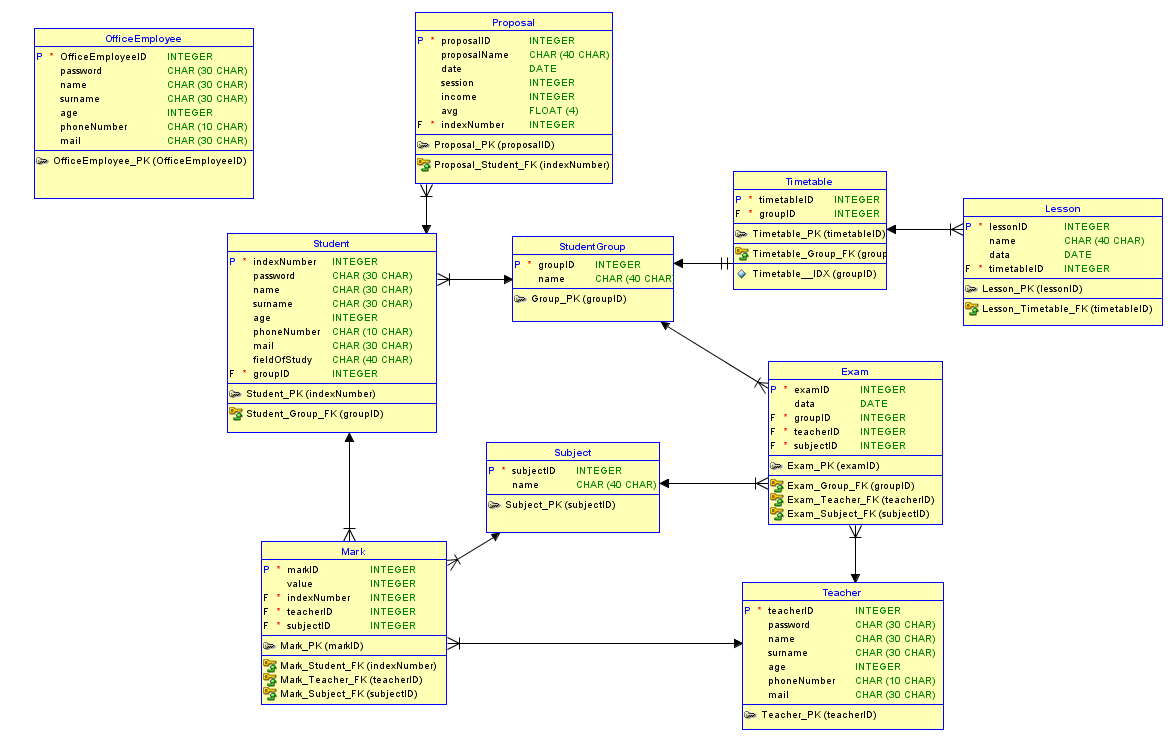
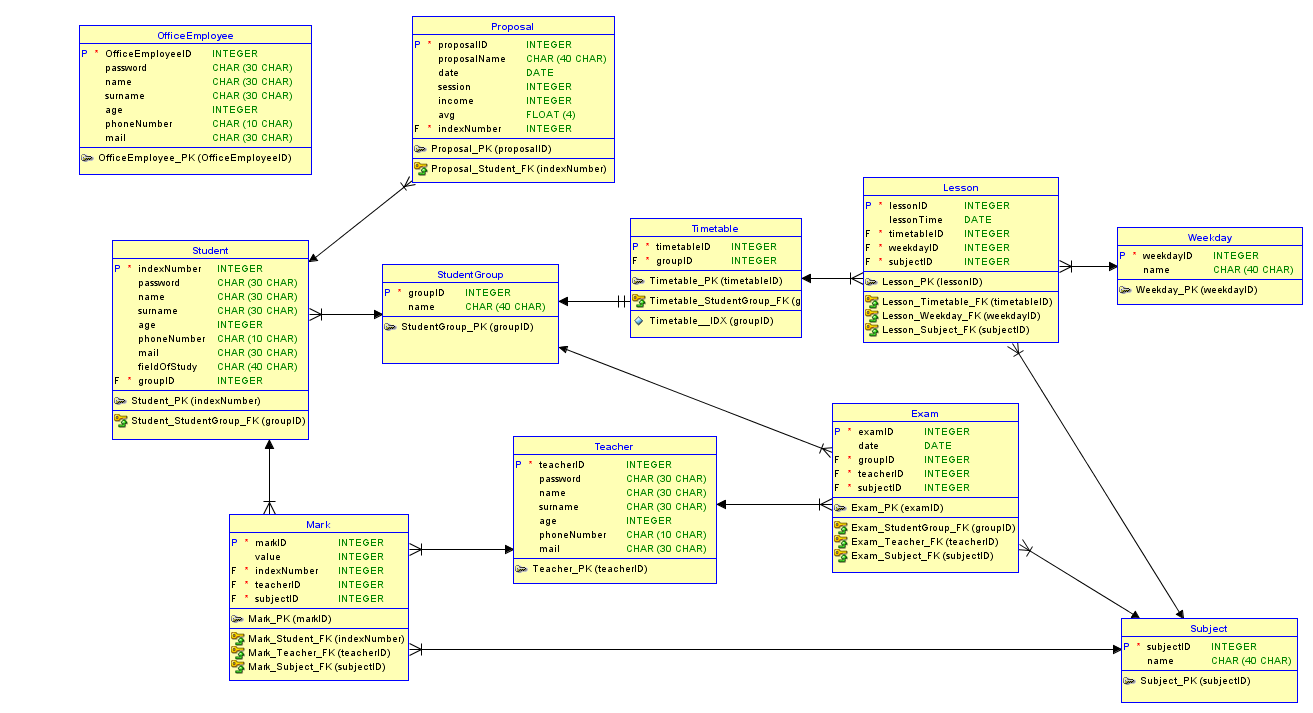
Updated addLessonToTimetable

diff --git a/GUI/src/addLessonToTimetable.java b/GUI/src/addLessonToTimetable.java
@@ -1,0 +1,140 @@
+import com.github.lgooddatepicker.components.TimePicker;
+
+import javax.swing.*;
+import java.awt.event.ActionEvent;
+import java.awt.event.ActionListener;
+import java.sql.*;
+
+public class addLessonToTimetable extends JFrame implements ActionListener {
+    private JPanel addLessonPanel;
+    private JPanel addLessonForm;
+    private JPanel buttonPanel;
+    private JTextField subjectField;
+    private JComboBox groupComboBox;
+    private JComboBox weekdayComboBox;
+    private TimePicker hourTimePicker;
+    private JButton addButton;
+    private JButton resetButton;
+    private JButton closebutton;
+    Connection con;
+    Statement stmt;
+
+    public addLessonToTimetable(Connection con, Statement stmt){
+        JFrame lesson = this;
+        lesson.setSize(400, 400);
+        lesson.setLocationRelativeTo(null);
+        this.setDefaultCloseOperation(JFrame.EXIT_ON_CLOSE);
+        this.setContentPane(addLessonPanel);
+
+        this.con = con;
+        this.stmt = stmt;
+
+        resetButton.addActionListener(this);
+        addButton.addActionListener(this);
+        closebutton.addActionListener(this);
+
+        String[] weekdays = {"Poniedzialek", "Wtorek", "Sroda", "Czwartek", "Piatek", "Sobota", "Niedziela"};
+
+        for(int i=0;i<weekdays.length;i++){
+            weekdayComboBox.addItem(weekdays[i]);
+        }
+
+        try {
+            ResultSet groups = stmt.executeQuery("SELECT * from StudentGroup");
+            while(groups.next()) {
+                groupComboBox.addItem(groups.getString("name"));
+            }
+        } catch (SQLException throwables) {
+            throwables.printStackTrace();
+        }
+
+        lesson.setVisible(true);
+    }
+
+    @Override
+    public void actionPerformed(ActionEvent e) {
+        String subjectName = null;
+        String groupName = null;
+        int subjectID=0;
+        int groupID=0;
+        int timetableID=0;
+        int weekdayID=0;
+        String lessonTime = null;
+        int count;
+        if(e.getSource()==addButton){
+            if(!subjectField.getText().isEmpty()){
+                subjectName = subjectField.getText();
+            }
+            try {
+                ResultSet subjects = stmt.executeQuery("SELECT * from subject where name='"+subjectName+"'");
+                if(!subjects.next()){
+                    count = stmt.executeUpdate("insert into subject values(subject_seq.NEXTVAL,'"+subjectName+"')");
+                    if(count>0)
+                        System.out.println("records inserted succesfully");
+                    else
+                        System.out.println("records insertion failed");
+
+                    subjects = stmt.executeQuery("SELECT * from subject where name='"+subjectName+"'");
+                    while(subjects.next()) {
+                         subjectID = subjects.getInt("subjectID");
+                    }
+                }
+                else{
+                    subjectID = subjects.getInt("subjectID");
+                }
+
+                groupName = groupComboBox.getSelectedItem().toString();
+                ResultSet groups = stmt.executeQuery("SELECT * from StudentGroup where name='"+groupName+"'");
+                if(!groups.next()){
+                    count = stmt.executeUpdate("insert into StudentGroup values(group_seq.NEXTVAL,'"+groupName+"')");
+                    if(count>0)
+                        System.out.println("records inserted succesfully");
+                    else
+                        System.out.println("records insertion failed");
+
+                    groups = stmt.executeQuery("SELECT * from StudentGroup where name='"+groupName+"'");
+                    while(groups.next()) {
+                        groupID = groups.getInt("groupID");
+                    }
+                }
+                else{
+                    groupID = groups.getInt("groupID");
+                }
+                ResultSet timetables = stmt.executeQuery("SELECT * from timetable where groupID="+groupID);
+                if(!timetables.next()){
+                    count = stmt.executeUpdate("insert into timetable values(timetable_seq.NEXTVAL,'"+groupID+"')");
+                    if(count>0)
+                        System.out.println("records inserted succesfully");
+                    else
+                        System.out.println("records insertion failed");
+
+                    timetables = stmt.executeQuery("SELECT * from timetable where groupID="+groupID);
+                    while(timetables.next()) {
+                        timetableID = timetables.getInt("timetableID");
+                    }
+                }
+                else{
+                    timetableID = timetables.getInt("timetableID");
+                }
+                ResultSet weekdays = stmt.executeQuery("SELECT * from weekday where name='"+weekdayComboBox.getSelectedItem().toString()+"'");
+                while(weekdays.next()){
+                    weekdayID = weekdays.getInt("weekdayID");
+                }
+                lessonTime = hourTimePicker.getText();
+
+                count = stmt.executeUpdate("INSERT INTO LESSON " +
+                                "(LESSONID, LESSONTIME, TIMETABLEID, WEEKDAYID, SUBJECTID)"+
+                 "VALUES (lesson_seq.NEXTVAL, TO_DATE('2022-01-01 "+lessonTime+"', 'YYYY-MM-DD HH24:MI'),"+
+                 +timetableID+","+weekdayID+","+subjectID+")");
+
+                if(count>0)
+                    System.out.println("records inserted succesfully");
+                else
+                    System.out.println("records insertion failed");
+
+            } catch (SQLException throwables) {
+                throwables.printStackTrace();
+            }
+        }
+    }
+}

diff --git a/GUI/src/ProposalView.java b/GUI/src/ProposalView.java
@@ -27,12 +27,13 @@ public class ProposalView extends JFrame implements ActionListener {
     private JButton resetButton;
     private JPanel avgPanel;
     private JPanel incomePanel;
+    private JButton closeButton;
     Statement stmt;
     Connection con;
 
     public ProposalView(int indexNumber, Connection con, Statement stmt) {
         JFrame proposal = this;
-        proposal.setSize(400, 400);
+        proposal.setSize(400, 500);
         proposal.setLocationRelativeTo(null);
         this.setDefaultCloseOperation(JFrame.EXIT_ON_CLOSE);
         this.setContentPane(ProposalPanel);
@@ -46,6 +47,13 @@ public class ProposalView extends JFrame implements ActionListener {
 
         resetButton.addActionListener(this);
         sendButton.addActionListener(this);
+
+        closeButton.addActionListener((new ActionListener() {
+            @Override
+            public void actionPerformed(ActionEvent e) {
+                proposal.dispose();
+            }
+        }));
 
 
         ProposalForm.setVisible(true);

diff --git a/GUI/src/TeacherView.java b/GUI/src/TeacherView.java
@@ -64,7 +64,7 @@ public class TeacherView extends MainWindow{
         button3.addActionListener(new ActionListener() {
             @Override
             public void actionPerformed(ActionEvent e) {
-                System.exit(0);
+                addLessonToTimetable lesson = new addLessonToTimetable(con, stmt);
             }
         });
 
